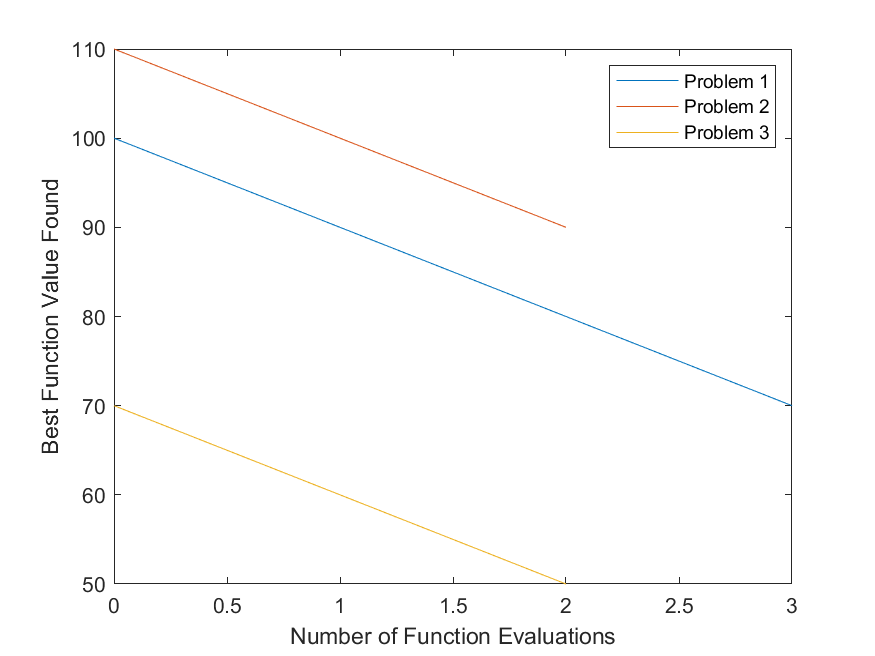
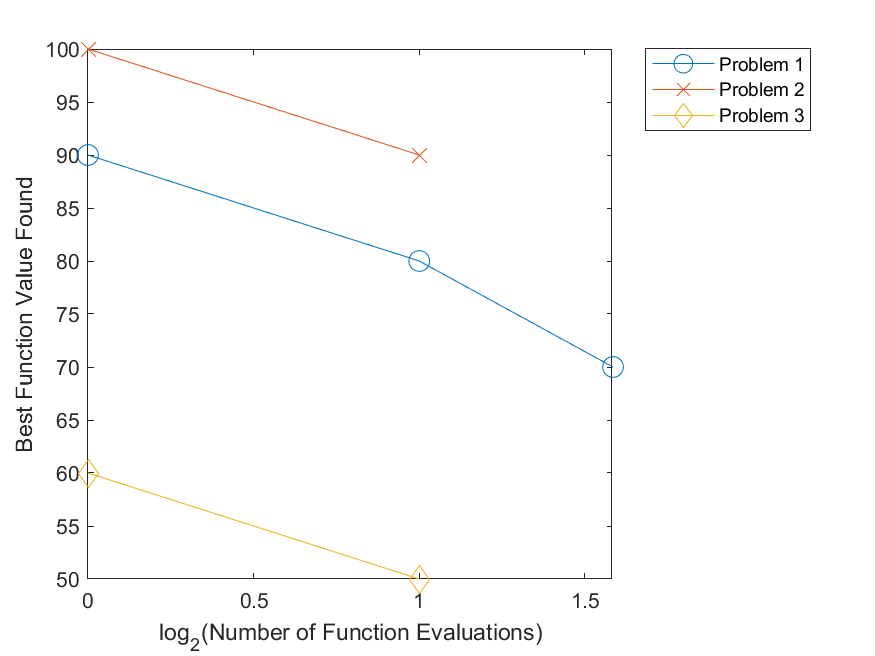
added log scaling functionality to convergence plot

diff --git a/convergencePlot.m b/convergencePlot.m
@@ -5,15 +5,19 @@
 
 classdef convergencePlot
     methods(Static)
-        function j = plot(X,Y,Z,outputFile)
-            logplot = false
-            plot(X(:,1),X(:,2))
+        function j = plot(X,Y,Z,outputFile,logplot)
+            if logplot
+                X(:,1) = log2(X(:,1))
+                Y(:,1) = log2(Y(:,1))
+                Z(:,1) = log2(Z(:,1))
+              
+            end
+            plot(X(:,1),X(:,2),'-o','MarkerSize',10)
             hold on
-            plot(Y(:,1),Y(:,2))
+            plot(Y(:,1),Y(:,2),'-x','MarkerSize',10)
             hold on
-            plot(Z(:,1),Z(:,2))
+            plot(Z(:,1),Z(:,2),'-d','MarkerSize',10)
             hold on
-            
             legend('Problem 1','Problem 2','Problem 3');
 
             if (logplot) 

diff --git a/test.m b/test.m
@@ -16,4 +16,5 @@ simplexPlot.plot(X,Y,1,'C:\Users\User\Desktop\Math462\GroupProject\Cosc419KGroup
 X =[0,100; 1,90;2,80;3,70];
 Y =[0,110; 1,100;2,90];
 Z =[0,70; 1,60;2,50];
-convergencePlot.plot(X,Y,Z,'C:\Users\User\Desktop\Math462\GroupProject\Cosc419KGroupProject\testConvergenceFolder\');
+
+convergencePlot.plot(X,Y,Z,'C:\Users\User\Desktop\Math462\GroupProject\Cosc419KGroupProject\testConvergenceFolder\',true);

diff --git a/simplexPlot.m b/simplexPlot.m
@@ -16,6 +16,7 @@ classdef simplexPlot
             alpha(s1,0.1);
             legend show;
             saveas(gcf,strcat(outputFile,'simplex',string(iter), '-',string(iter+1),'.png'));
+            hold off;
         end
     end
 end
